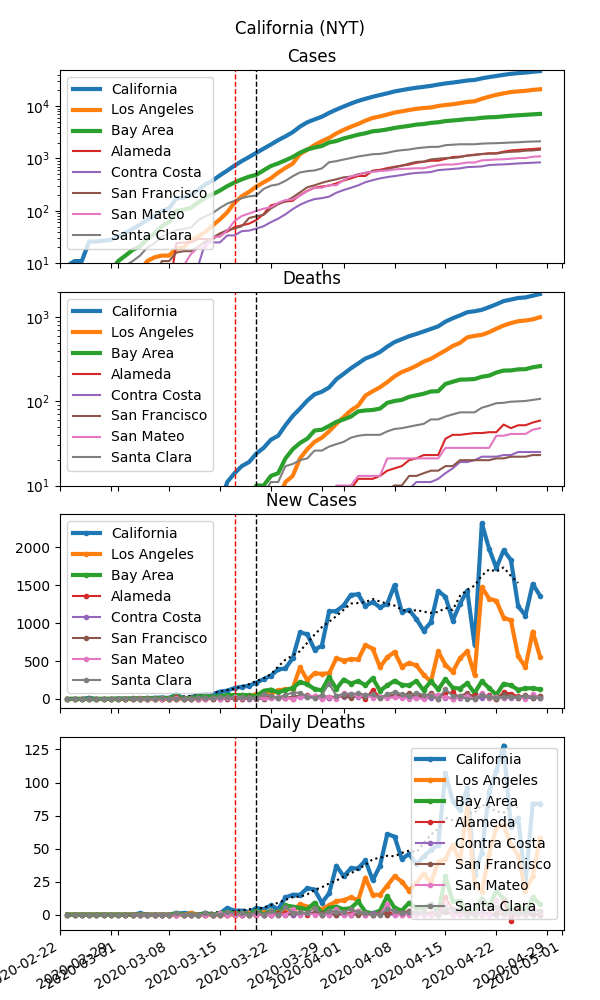
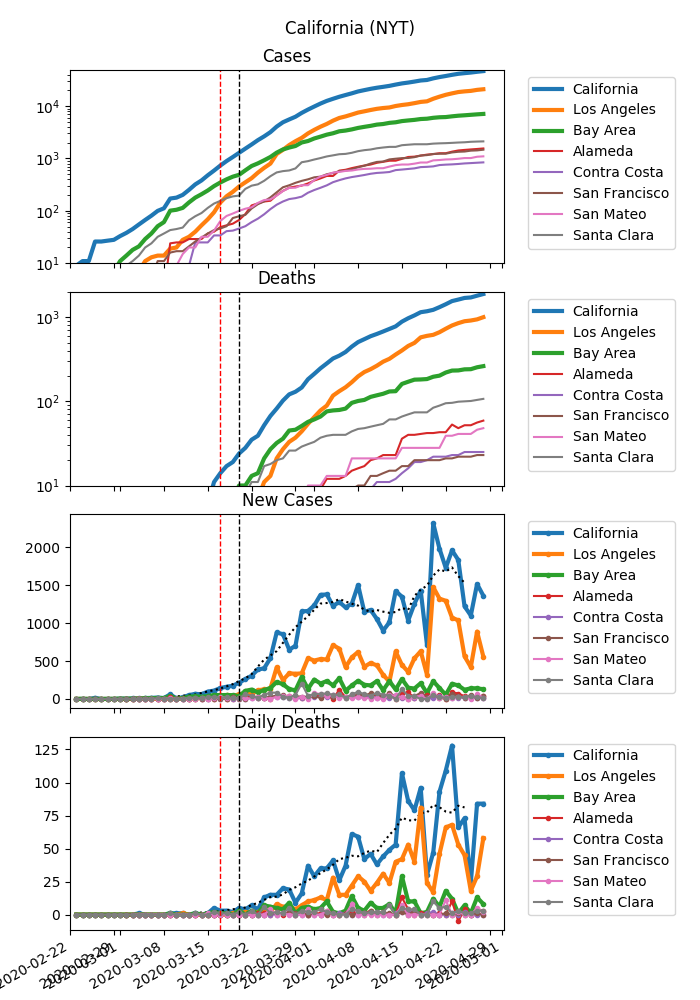
Tweaked NYT plots to move legend outside axes

Changed region(s): [[0.0, 0.0, 0.96, 0.992], [0.03, 0.465, 0.09, 0.496], [0.03, 0.248, 0.09, 0.279]]

diff --git a/plotNytData.py b/plotNytData.py
@@ -116,7 +116,7 @@ if __name__=='__main__':
     unitedStates = nytData.getStatesSum(startDate=startDate)
     states = ['California', 'New York', 'New Jersey', 'Washington', 'Florida', 'Louisiana', 'Michigan', 'Georgia']
     stateData = {state: nytData.getState(state, startDate) for state in states}
-    fig, axes = plt.subplots(len(fields), sharex=True, figsize=(6, 10))
+    fig, axes = plt.subplots(len(fields), sharex=True, figsize=(7, 10))
     fig.suptitle('United States (NYT)')
     for ax, field in zip(axes, fields):
         if field == 'new cases':
@@ -137,13 +137,13 @@ if __name__=='__main__':
             ax.set_yscale('log')
         ax.axvline(californiaSip, color='k', linewidth=1, linestyle='--')
         ax.set_xlim([startDate, None])
-        ax.legend()
+        ax.legend(bbox_to_anchor=(1.04,1), loc="upper left")
         ax.set_title(field.title())
     fig.autofmt_xdate()
-    fig.subplots_adjust(left=0.1, bottom=0.07, right=0.94, top=0.93, wspace=None, hspace=0.15)
+    fig.subplots_adjust(left=0.1, bottom=0.07, right=0.72, top=0.93, wspace=None, hspace=0.15)
     savePlot(fig, args.plotsPath, 'nyt_us_cases.png')
 
-    fig, axes = plt.subplots(len(fields), sharex=True, figsize=(6, 10))
+    fig, axes = plt.subplots(len(fields), sharex=True, figsize=(7, 10))
     fig.suptitle('California (NYT)')
     for ax, field in zip(axes, fields):
         if field == 'new cases':
@@ -171,10 +171,10 @@ if __name__=='__main__':
         ax.axvline(bayAreaSip, color='r', linewidth=1, linestyle='--')
         ax.axvline(californiaSip, color='k', linewidth=1, linestyle='--')
         ax.set_xlim([startDate, None])
-        ax.legend()
+        ax.legend(bbox_to_anchor=(1.04,1), loc="upper left")
         ax.set_title(field.title())
     fig.autofmt_xdate()
-    fig.subplots_adjust(left=0.1, bottom=0.07, right=0.94, top=0.93, wspace=None, hspace=0.15)
+    fig.subplots_adjust(left=0.1, bottom=0.07, right=0.72, top=0.93, wspace=None, hspace=0.15)
     savePlot(fig, args.plotsPath, 'nyt_ca_cases.png')
 
     if not args.noPlot:

diff --git a/plotCdphData.py b/plotCdphData.py
@@ -102,7 +102,7 @@ if __name__=='__main__':
     axes[0].axvspan(convertNumpyDatetimeToDatetime(data['date'][0]), switchFromIndividualTestsToAllTests, color='k', linewidth=0, alpha=0.1)
     axes[0].set_xlim([convertNumpyDatetimeToDatetime(data['date'][0]), None])
     axes[0].set_ylim([0, None])
-    axes[0].legend()
+    axes[0].legend(loc='upper left')
     axes[0].set_title('Tests')
 
     # axes[1].plot(data['date'], data['cases'])
@@ -115,7 +115,7 @@ if __name__=='__main__':
     axes[1].plot(data['date'][1:], np.diff(data['cases']), label='New Cases')
     axes[1].plot(data['date'][1:], np.diff(data['testsReceived']), label='New Tests Rcvd')
     axes[1].plot(data['date'][14:-3], movingAverage(np.diff(data['testsReceived'][10:])), color='k', linestyle=':')
-    axes[1].legend()
+    axes[1].legend(loc='upper left')
     axes[1].axvline(bayAreaSip, color='r', linewidth=1, linestyle='--')
     axes[1].axvline(californiaSip, color='k', linewidth=1, linestyle='--')
     axes[1].axvspan(convertNumpyDatetimeToDatetime(data['date'][1]), switchFromIndividualTestsToAllTests, color='k', linewidth=0, alpha=0.1)
